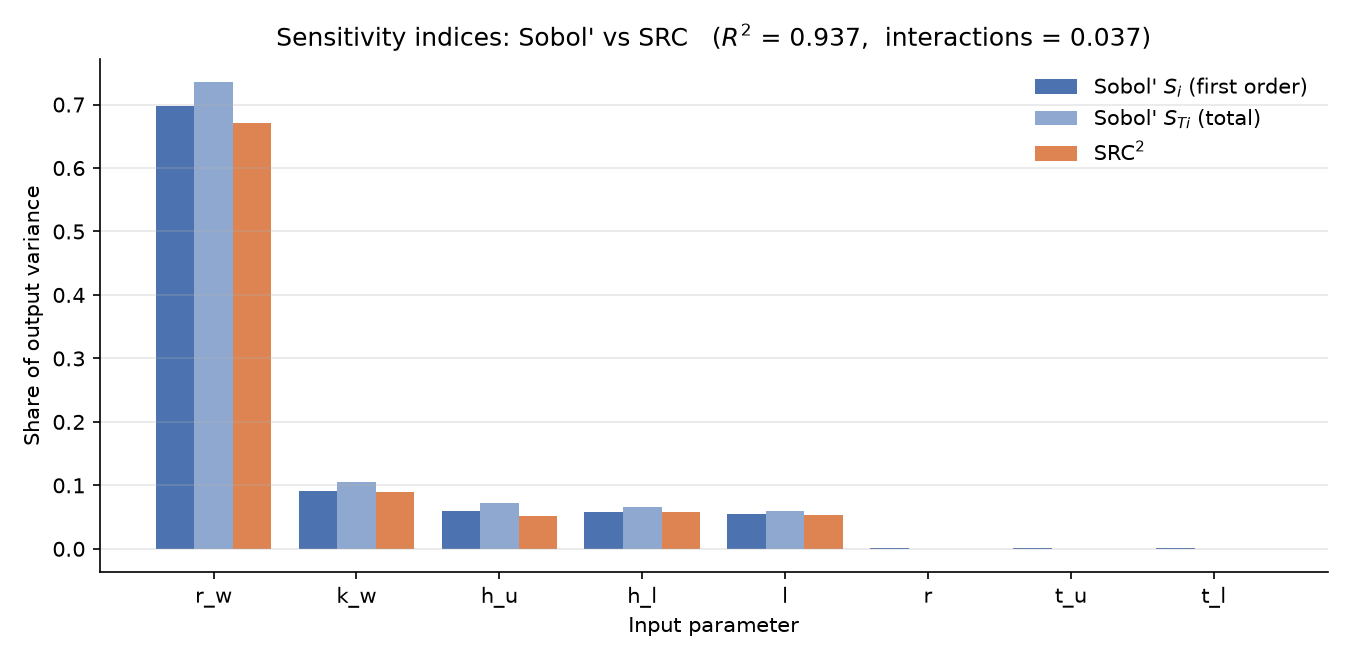
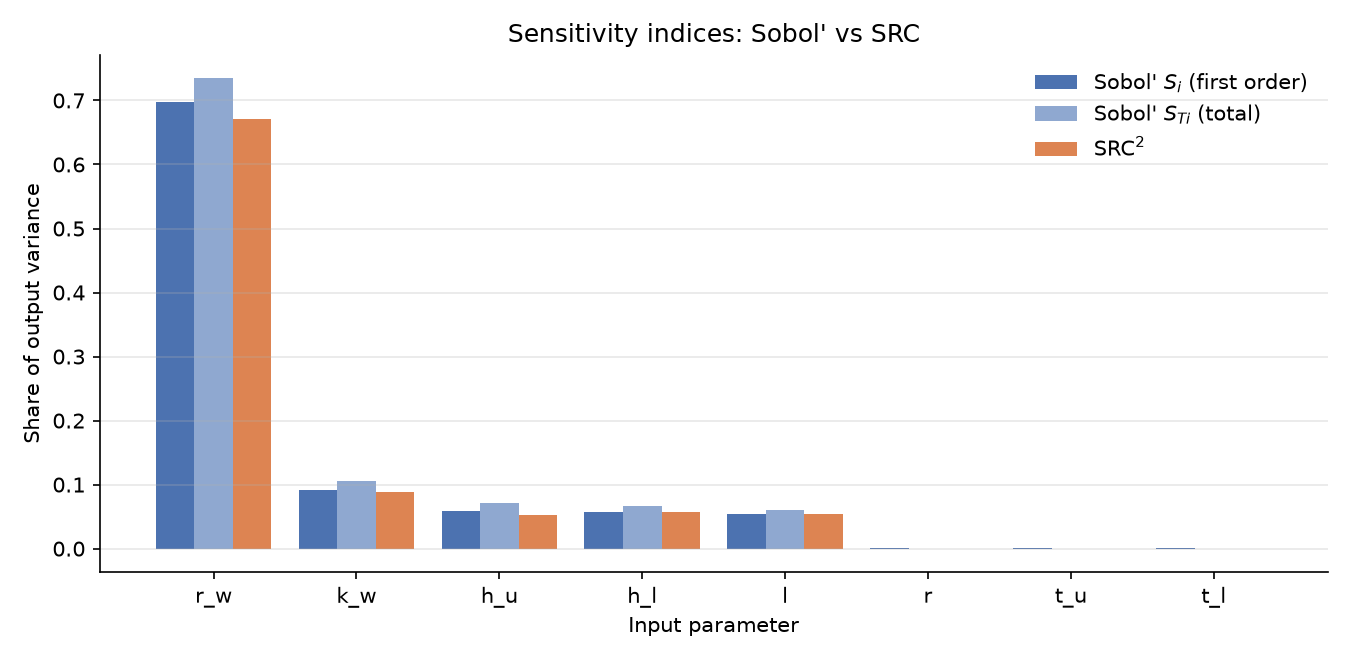
update sensitivity comparison plot

diff --git a/assignment.py b/assignment.py
@@ -211,8 +211,7 @@ ax5.set_xticks(xpos)
 ax5.set_xticklabels([names[j] for j in order])
 ax5.set_xlabel('Input parameter')
 ax5.set_ylabel('Share of output variance')
-ax5.set_title("Sensitivity indices: Sobol' vs SRC   "
-              f"($R^2$ = {R2:.3f},  interactions = {1-Si.sum():.3f})")
+ax5.set_title("Sensitivity indices: Sobol' vs SRC")
 ax5.legend(frameon=False)
 ax5.grid(axis='y', alpha=0.3)
 ax5.spines[['top', 'right']].set_visible(False)
